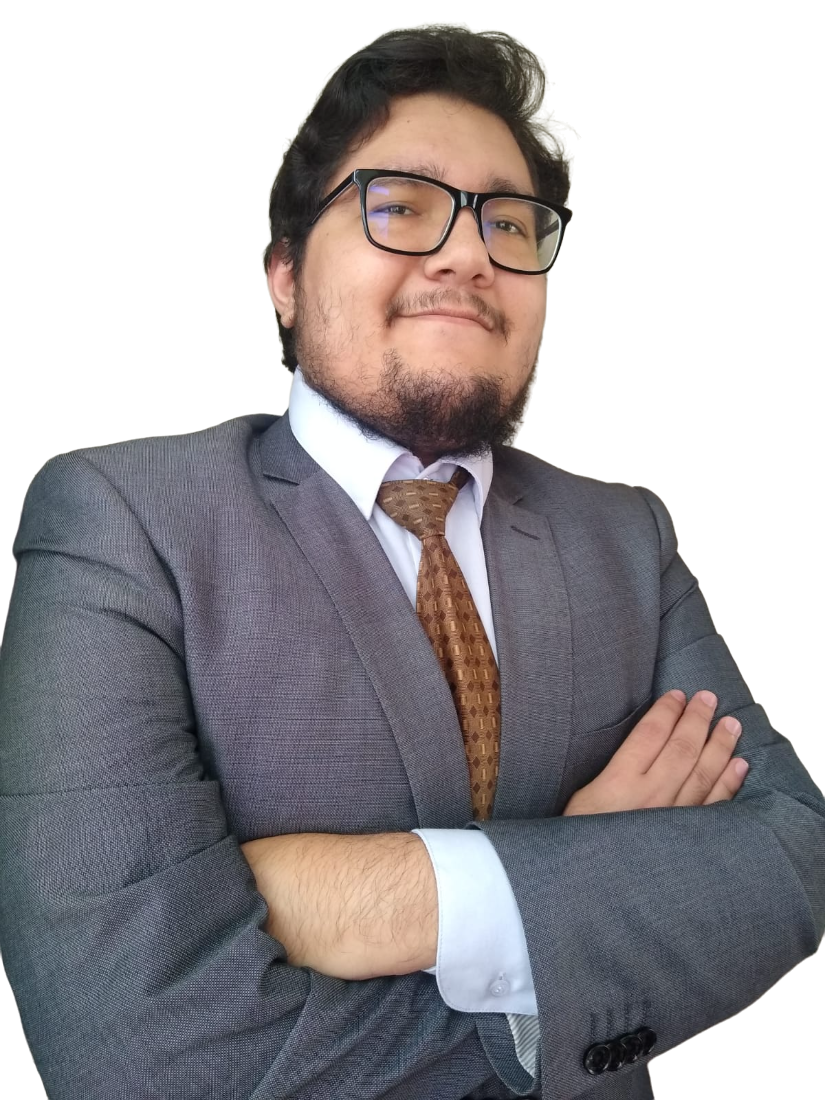
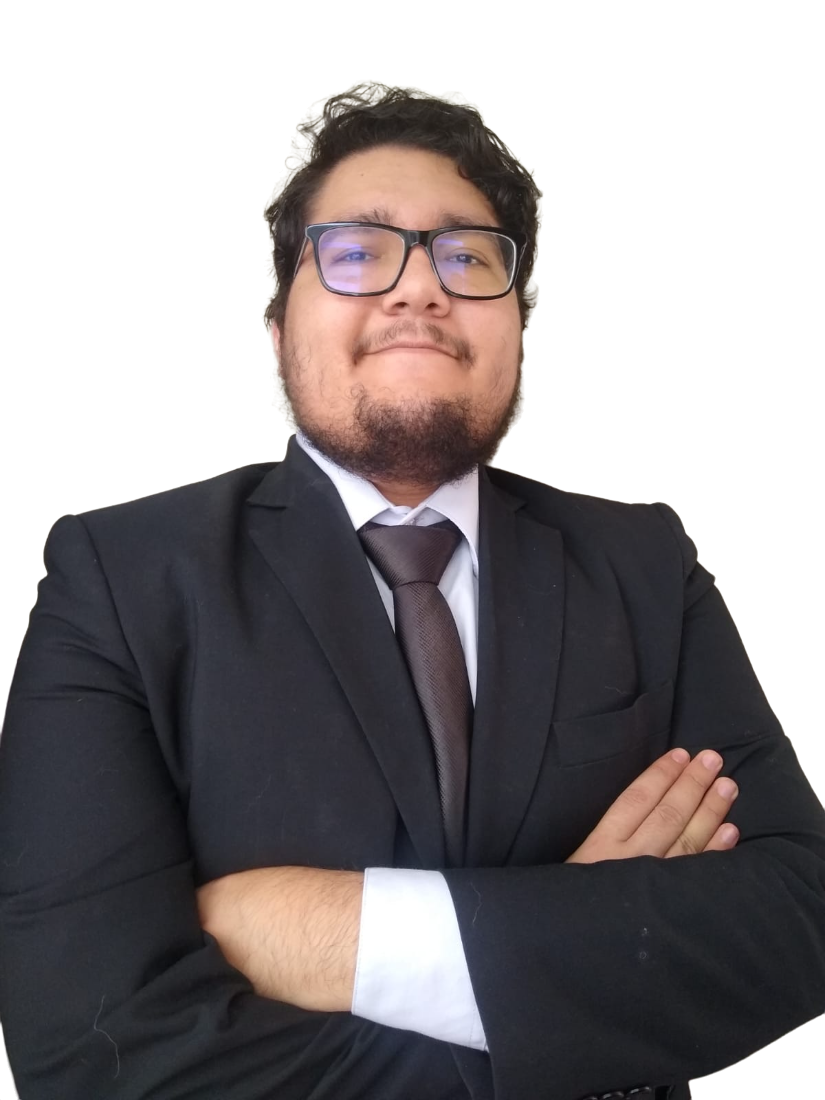
imagenes de equipo

diff --git a/index.html b/index.html
@@ -99,15 +99,20 @@
       <div class="col-lg-10 col-md-8 equipo" id="equipo">
          <div class="persona-bg" id="ïtem1">
             <a class="botonmodal" type="button" id="mod" data-bs-toggle="modal" data-bs-target="#staticBackdrop1" > 
-              <img class="persona" src="media/richard.png" width="200px" height="200px" /></a>  
+              <img class="persona" src="media/srleyva.jpeg" width="200px" height="200px" /></a>  
           </div>
           <div class="persona-bg" id="ïtem2">
             <ba  class="botonmodal"type="button" id="mod" data-bs-toggle="modal" data-bs-target="#staticBackdrop2" > 
-              <img class="persona" src="media/prof2.jpg" width="200px" height="200px" /></a>
+              <img class="persona" src="media/geiner.png" width="200px" height="200px" /></a>
            
           </div>
           <div class="persona-bg" id="ïtem3">
-            <a class="botonmodal3"type="button" id="mod" data-bs-toggle="modal" data-bs-target="#staticBackdrop3" >
+            <a class="botonmodal"type="button" id="mod" data-bs-toggle="modal" data-bs-target="#staticBackdrop3" >
+               <img class="persona" src="media/geral.png" width="200px" height="200px" /></a>
+              
+          </div>
+          <div class="persona-bg" id="ïtem4">
+            <a class="botonmodal"type="button" id="mod" data-bs-toggle="modal" data-bs-target="#staticBackdrop4" >
                <img class="persona" src="media/richard.png" width="200px" height="200px" /></a>
               
           </div>
@@ -120,11 +125,11 @@
   <div class="modal-dialog">
     <div class="modal-content">
       <div class="modal-header">
-        <h5 class="modal-title" id="staticBackdropLabel">RICHARD ARMAS</h5>
+        <h5 class="modal-title" id="staticBackdropLabel">LEYVA</h5>
         <button type="button" class="btn-close" data-bs-dismiss="modal" aria-label="Close"></button>
       </div>
       <div class="modal-body">
-        <P id="resumen">Experiencia en el ámbito civil y penal con especial connotación en el derecho penal. </P>
+        <P id="resumen">... </P>
       </div>
     
     
@@ -136,11 +141,11 @@
   <div class="modal-dialog">
     <div class="modal-content">
       <div class="modal-header">
-        <h5 class="modal-title" id="staticBackdropLabe2">LEYVA</h5>
+        <h5 class="modal-title" id="staticBackdropLabe2">AXEL ARMAS</h5>
         <button type="button" class="btn-close" data-bs-dismiss="modal" aria-label="Close"></button>
       </div>
       <div class="modal-body">
-        <p id="resumen">Amplia experiencia y reconocimiento en el ámbito penal nacional, ha laborado en diversos estudios jurídicos de renombre.</p>
+        <p id="resumen">Amplia experiencia en el sistema procesal civil, registral, notarial y extrajudicial, ex-trabajador de la Corte Superior de Justicia de Lima Norte. Se encuentra registrado en el Ministerio de Justicia y Derechos Humanos como Conciliador Extrajudicial. </p>
       </div>
      
     </div>
@@ -150,13 +155,25 @@
   <div class="modal-dialog">
     <div class="modal-content">
       <div class="modal-header">
-        <h5 class="modal-title" id="staticBackdropLabe3">AXEL ARMAS</h5>
+        <h5 class="modal-title" id="staticBackdropLabe3">GERALDINE LEYVA</h5>
         <button type="button" class="btn-close" data-bs-dismiss="modal" aria-label="Close"></button>
       </div>
       <div class="modal-body">
-        <p id="resumen">Amplia experiencia en el sistema procesal civil, registral, notarial y extrajudicial, ex-trabajador de la Corte Superior de Justicia de Lima Norte. Se encuentra registrado en el Ministerio de Justicia y Derechos Humanos como Conciliador Extrajudicial. </p>
+        <p id="resumen">Amplia experiencia y reconocimiento en el ámbito penal nacional, ha laborado en diversos estudios jurídicos de renombre.</p>
       </div>
-     
+    </div>
+  </div>
+</div>
+<div class="modal fade" id="staticBackdrop4" data-bs-backdrop="static" data-bs-keyboard="false" tabindex="-1" aria-labelledby="staticBackdropLabel" aria-hidden="true">
+  <div class="modal-dialog">
+    <div class="modal-content">
+      <div class="modal-header">
+        <h5 class="modal-title" id="staticBackdropLabe4">RICHARD ARMAS</h5>
+        <button type="button" class="btn-close" data-bs-dismiss="modal" aria-label="Close"></button>
+      </div>
+      <div class="modal-body">
+        <p id="resumen">Experiencia en el ámbito civil y penal con especial connotación en el derecho penal. </p>
+      </div>
     </div>
   </div>
 </div>

diff --git a/css/main.css b/css/main.css
@@ -409,7 +409,9 @@ footer {
         text-align: center !important;
     }
 
-   
+   /* .equipo {
+        display: none;
+    }*/
 
     .especialidad  {
         border: none;
